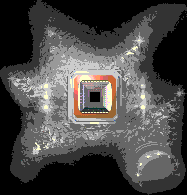
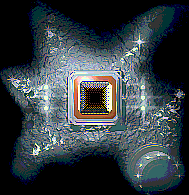
Better graphic, and bugfix, testing more lines.

diff --git a/main/modes/games/GossipStone/gossipStone.c b/main/modes/games/GossipStone/gossipStone.c
@@ -262,7 +262,7 @@ static void gs_loadAssets(void)
     gs_loadAsset(HI_RES_MOON_WSG, 1, &gameData->assets[GS_HI_RES_MOON_ASSET]);
     gameData->assets[GS_HI_RES_MOON_ASSET].originX = 180;
     gameData->assets[GS_HI_RES_MOON_ASSET].originY = 127;
-    gs_loadAsset(LANDING_DITHERED_WSG, 1, &gameData->assets[GS_LANDING_ASSET]);
+    gs_loadAsset(LANDING_WSG, 1, &gameData->assets[GS_LANDING_ASSET]);
 }
 
 static void gs_initializeGame(void)

diff --git a/main/modes/games/GossipStone/gs_entity.c b/main/modes/games/GossipStone/gs_entity.c
@@ -112,6 +112,7 @@ void gs_updateGossip(gs_entity_t* self)
             case GS_GOSSIP_SUBMODE:
             case GS_AMA_SUBMODE:
                 data->index = gs_randomInt(1, data->arr_size - 1);
+                data->gossipStone->paused = false;
                 break;
             case GS_PROPHECY_SUBMODE:
                 if (data->index < data->arr_size - 1)

diff --git a/main/modes/games/GossipStone/gs_gossip.c b/main/modes/games/GossipStone/gs_gossip.c
@@ -9,6 +9,11 @@ const char* gossipList[GOSSIP_COUNT] = {
     "Here is line number 3.",
     "Yeah, number four.",
     "Okay, that's number five.",
+    "sixeroni.",
+    "sevennnnnnnn.",
+    "Here is the eighth line.",
+    "NINE.",
+    "TEN!!!!!!!!",
 };
 
 const char* AMAList[AMA_COUNT] = {

diff --git a/main/modes/games/GossipStone/gs_gossip.h b/main/modes/games/GossipStone/gs_gossip.h
@@ -1,6 +1,6 @@
 #pragma once
 
-#define GOSSIP_COUNT             6
+#define GOSSIP_COUNT             11
 #define AMA_COUNT                21
 #define PROPHECY_COUNT           15
 #define PROPHECY_END_SCENE_COUNT 5
